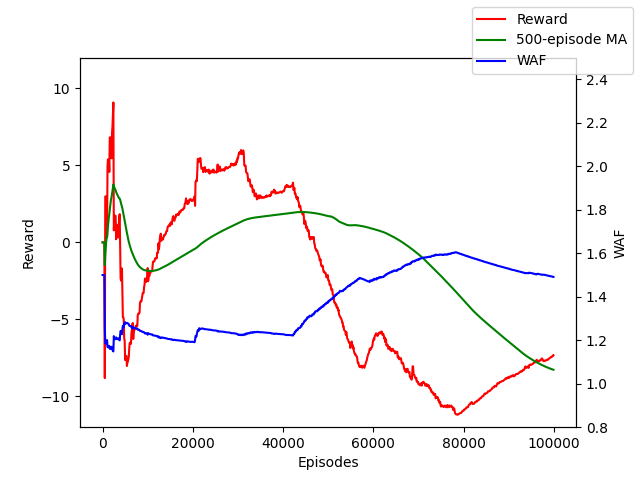
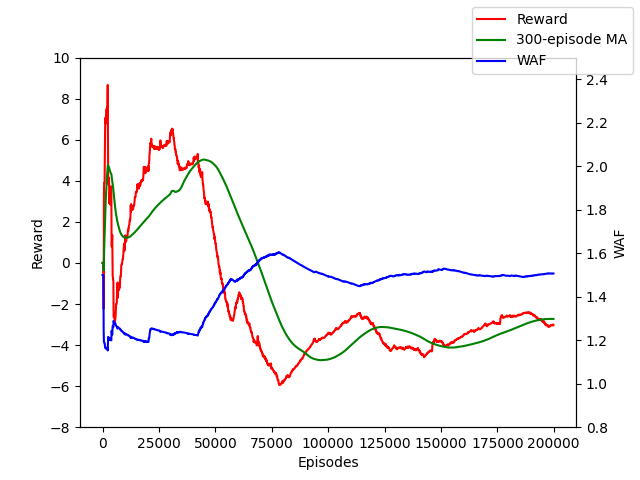
new reward mechanism

diff --git a/test.py b/test.py
@@ -18,7 +18,7 @@ def DrawingDoubleCurve():
     right.sort()
     left.extend(right)
     plt.plot(left)
-    plt.savefig('test.png')
+    plt.savefig('reward_curve.png')
 
 def DrawingWeightFunctionCurve():
     ESTIMATED_BITS = int(os.getenv('ESTIMATED_BITS'))
@@ -43,14 +43,17 @@ def DrawingEstimatedWAFDistribution():
     plt.savefig('test.png')
 
 def DrawingGCDistribution():
-    x = [42169, 42256, 42431, 42575, 42721, 42889, 43084, 43302, 43425, 43854, 44025, 44261, 44380, 44507, 44594, 44755, 44915, 45095, 45234, 45390, 45586, 45816, 45962, 46453, 46596, 46856, 46997, 47206, 47483, 47680, 47928, 48101, 48254, 48489, 48701, 48905, 49133, 49276, 49517, 49559, 49733, 49960, 50158, 50333, 50473, 50681, 50882, 51078, 51243, 51329, 51484, 51621, 51781, 51982, 52148, 52325, 52451, 52733, 52923, 53228, 53440, 53594, 53715, 53896, 54059, 54181, 54404, 54562, 54751, 54920, 55130, 55303, 55476, 55641, 55788, 55937, 56135, 56296, 56406, 56555, 56779, 56980, 58621, 58892, 59346, 59566, 59838, 59983, 60207, 60535, 60848, 61077, 61274, 61602, 61884, 62162, 62329, 62504, 62593, 62725, 62889, 63019, 63287, 63482, 63684, 63855, 64044, 64211, 64452, 64707, 65062, 65252, 65455, 65695, 65862, 66040, 66136, 66293, 66468, 66604, 66820, 66934, 67012, 67277, 67590, 67728, 67967, 68128, 68289, 68952, 69111, 69213, 69457, 69699, 69960, 70149, 70292, 70464, 70676, 71002, 71225, 71497, 71734, 72026, 72246, 72547, 72844, 73049, 73251, 73431, 73550, 73834, 74127, 74510, 74783, 75285, 75547, 75757, 76149, 76535, 76669, 76956, 77160, 77359, 77592, 77829, 78012, 78611, 80020, 83702, 93730, 94101, 94396, 94478, 96042, 96100, 97246, 97488, 99614]
-    plt.hist(x, width= 100, bins = len(x))
-    # set the x-label and y-label
-    plt.xlabel('Values')
-    plt.ylabel('Frequency')
-    plt.xlim(0, 100000)
-    # show the plot
-    plt.savefig('test.png')
+    counter = {402: 1, 960: 1, 1537: 1, 2175: 1, 2887: 1, 3672: 1, 5218: 1, 5779: 1, 6372: 1, 7108: 1, 7629: 1, 8222: 1, 8800: 1, 9420: 1, 10378: 1, 10456: 1, 10963: 1, 11542: 1, 12105: 1, 12928: 1, 13394: 1, 13967: 1, 14533: 1, 15105: 1, 15744: 1, 16335: 1, 16921: 1, 17493: 1, 18075: 1, 19127: 1, 19131: 1, 19660: 1, 20232: 1, 21797: 1, 22374: 1, 23014: 1, 23601: 1, 24207: 1, 24797: 1, 25489: 1, 26196: 1, 26649: 1, 27265: 1, 27814: 1, 28449: 1, 29039: 1, 29784: 1, 29960: 1, 30262: 1, 31455: 1, 31740: 1, 33909: 1, 34631: 1, 35264: 1, 35817: 1, 36397: 1, 36979: 1, 37632: 1, 38297: 1, 38419: 1, 38861: 1, 39453: 1, 40021: 1, 40794: 1, 41306: 1, 41868: 1, 42466: 1, 42998: 1, 43026: 1, 43688: 1, 44274: 1, 44590: 1, 44829: 1, 44846: 1, 45210: 1, 45426: 1, 45966: 1, 46474: 1, 46966: 1, 47003: 1, 47627: 1, 48201: 1, 48220: 1, 48789: 1, 49144: 1, 49436: 1, 49712: 1, 50110: 1, 50679: 1, 50813: 1, 51257: 1, 51402: 1, 51877: 1, 52279: 1, 52434: 1, 53221: 1, 53568: 1, 53731: 1, 54181: 1, 54310: 1, 54882: 1, 55246: 1, 55474: 1, 55792: 1, 56110: 1, 56658: 1, 56731: 1, 57918: 1, 58087: 1, 59605: 1, 59905: 1, 59984: 1, 60205: 1, 61113: 1, 61522: 1, 61870: 1, 62392: 1, 62585: 1, 62974: 1, 62992: 1, 63565: 1, 64145: 1, 64170: 1, 64804: 1, 65272: 1, 65433: 1, 66028: 1, 66102: 1, 66413: 1, 66629: 1, 66680: 1, 67012: 1, 67201: 1, 67959: 1, 67960: 1, 68291: 1, 69345: 1, 69622: 1, 69939: 1, 70153: 1, 70499: 1, 71115: 1, 71225: 1, 71704: 1, 72304: 1, 72721: 1, 72908: 1, 73431: 1, 73453: 1, 74142: 1, 74685: 1, 74757: 1, 75006: 1, 76137: 1, 76580: 1, 77183: 1, 77265: 1, 77710: 1, 78257: 1, 78682: 1, 78899: 1, 79488: 1, 80057: 1, 80656: 1, 81206: 1, 82033: 1, 82513: 1, 83084: 1, 83685: 1, 84261: 1, 84887: 1, 85531: 1, 86056: 1, 86631: 1, 87191: 1, 87989: 1, 88493: 1, 89066: 1, 89217: 1, 89642: 1, 90230: 1, 91036: 1, 91582: 1, 92114: 1, 92700: 1, 93275: 1, 93966: 1, 94077: 1, 94403: 1, 94653: 1, 95231: 1, 95804: 1, 96317: 1, 96400: 1, 97054: 1, 97634: 1, 98215: 1, 98781: 1, 99672: 1, 99860: 1, 99995: 1, 100033: 1, 100735: 1, 101260: 1, 101839: 1, 102422: 1, 103013: 1, 103652: 1, 104231: 1, 104830: 1, 105403: 1, 106079: 1, 106757: 1, 107248: 1, 108504: 1, 108703: 1, 109227: 1, 109825: 1, 110423: 1, 111074: 1, 111648: 1, 112224: 1, 112920: 1, 113005: 1, 113516: 1, 114055: 1, 114666: 1, 115238: 1, 115448: 1, 115904: 1, 116556: 1, 117153: 1, 117841: 1, 118394: 1, 118651: 1, 119164: 1, 119752: 1, 120289: 1, 120887: 1, 121196: 1, 121447: 1, 122045: 1, 122669: 1, 122962: 1, 123263: 1, 123849: 1, 124406: 1, 125177: 1, 125692: 1, 126201: 1, 126261: 1, 126843: 1, 127430: 1, 127607: 1, 128059: 1, 128663: 1, 128916: 1, 129560: 1, 130150: 1, 130451: 1, 130836: 1, 131709: 1, 131759: 1, 132311: 1, 132904: 1, 132917: 1, 133484: 1, 134086: 1, 134691: 1, 136153: 1, 136719: 1, 136777: 1, 137338: 1, 138102: 1, 139094: 1, 139331: 1, 139776: 1, 139887: 1, 140511: 1, 141095: 1, 141218: 1, 141685: 1, 142307: 1, 143089: 1, 143578: 1, 145262: 1, 145338: 1, 145905: 1, 147866: 1, 148118: 1, 148284: 1, 148418: 1, 148688: 1, 149867: 1, 150294: 1, 150973: 1, 151364: 1, 151543: 1, 152121: 1, 152765: 1, 152784: 1, 153358: 1, 153933: 1, 154507: 1, 154557: 1, 155156: 1, 155513: 1, 155841: 1, 156013: 1, 156724: 1, 157291: 1, 157863: 1, 158460: 1, 158994: 1, 159144: 1, 159730: 1, 160323: 1, 160936: 1, 161487: 1, 161931: 1, 162169: 1, 162782: 1, 163368: 1, 163558: 1, 164078: 1, 164635: 1, 165252: 1, 165878: 1, 166494: 1, 167075: 1, 167642: 1, 168292: 1, 168325: 1, 169074: 1, 169844: 1, 169923: 1, 170386: 1, 170414: 1, 170470: 1, 171113: 1, 171290: 1, 171321: 1, 171887: 1, 172509: 1, 173464: 1, 173528: 1, 173661: 1, 174001: 1, 174056: 1, 174539: 1, 174641: 1, 175307: 1, 175532: 1, 175636: 1, 175650: 1, 175967: 1, 176164: 1, 176187: 1, 176220: 1, 176254: 1, 176269: 1, 176358: 1, 176375: 1, 176843: 1, 177091: 1, 177185: 1, 177711: 1, 178282: 1, 178868: 1, 179487: 1, 180081: 1, 180192: 1, 180683: 1, 181060: 1, 181293: 1, 181838: 1, 182533: 1, 183179: 1, 183808: 1, 184385: 1, 184954: 1, 185567: 1, 186157: 1, 186746: 1, 187353: 1, 187907: 1, 188236: 1, 188732: 1, 188734: 1, 189208: 1, 189763: 1, 190368: 1, 190932: 1, 191608: 1, 191694: 1, 192224: 1, 192747: 1, 193316: 1, 193915: 1, 194008: 1, 194675: 1, 195091: 1, 195191: 1, 195759: 1, 196344: 1, 196979: 1, 197055: 1, 197750: 1, 198236: 1, 198791: 1, 199371: 1, 199552: 1, 199943: 1}
+    values = list(counter.keys())
+    counts = list(counter.values())
+    total = 0
+    for count in counts: total += count
+    plt.title(f'GC Distribution Count : {total}')
+    plt.hist(values, weights=counts, width= 400, bins=len(values))
+    plt.xlabel('Episodes')
+    plt.xlim(0, 200000)
+    plt.ylabel('Counts')
+    plt.savefig('test2.png')
     plt.clf()
 
 if __name__ == "__main__":

diff --git a/libs/history.py b/libs/history.py
@@ -24,7 +24,7 @@ class History:
     def ShowRewardAndWafHistory(self, path):
         # Assuming self.rewards and self.rewardWafEpisodes are lists of rewards and episodes
         # with the same length, and window_size is the number of episodes to use for the MA
-        window_size = 500
+        window_size = 300
 
         # Calculate the MA using Pandas
         ma_rewards = pd.Series(self.rewards).rolling(window_size, min_periods=1).mean()
@@ -36,7 +36,7 @@ class History:
         ax1.set_xlabel('Episodes')
         ax1.set_ylabel('Reward')
         ax2.set_ylabel('WAF')
-        ax1.set_ylim(-12, 12)
+        ax1.set_ylim(-8, 10)
         ax2.set_ylim(0.8, 2.5)
         # ax1.set_yscale('log')
         # Plot the reward and WAF data
@@ -68,7 +68,7 @@ class History:
         total = 0
         for count in counts: total += count
         plt.title(f'GC Distribution Count : {total}')
-        plt.hist(values, weights=counts, width= 100, bins=len(values))
+        plt.hist(values, weights=counts, width= 400, bins=len(values))
         plt.xlabel('Episodes')
         plt.xlim(0, TRACE_LENGTH)
         plt.ylabel('Counts')

diff --git a/libs/distribution.py b/libs/distribution.py
@@ -22,4 +22,5 @@ def GetRewardFunction():
 def MultiplyRewardFunction(waf):
     reward_function = GetRewardFunction()
     index = int(waf * N) - N - 1
-    return waf * reward_function[index]
+    # return waf * reward_function[index]
+    return reward_function[index]
